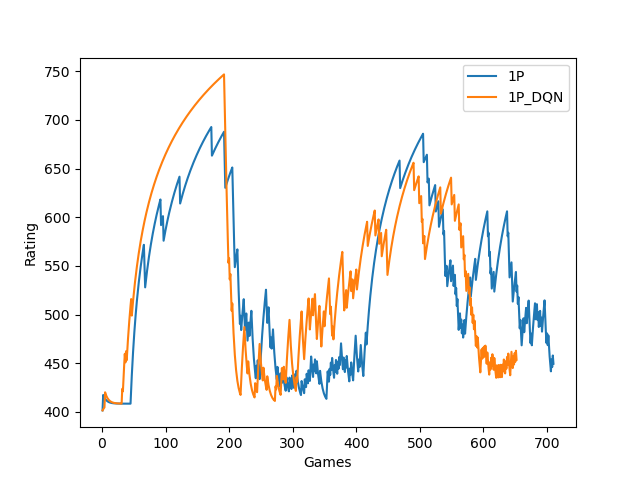
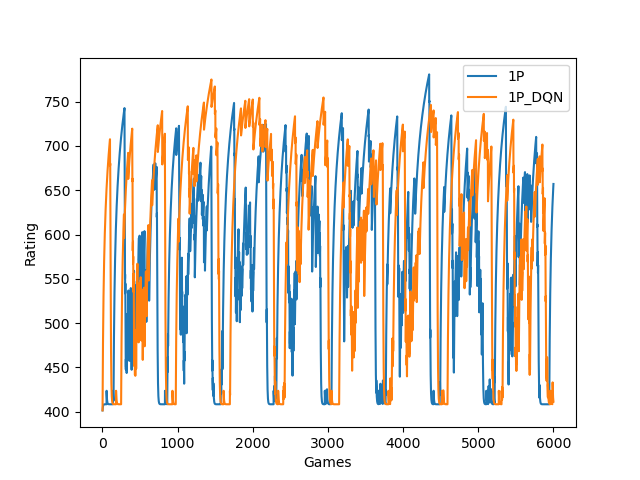
結果のグラフを追加

diff --git a/CardBattle/GraphDrawer_CompareWinRate2P.py b/CardBattle/GraphDrawer_CompareWinRate2P.py
@@ -1,0 +1,23 @@
+#coding: "utf-8"
+import matplotlib
+matplotlib.use("Agg")
+import matplotlib.pyplot as plt
+import pandas as pd
+
+Data2P = pd.read_csv("Model_EZero\EZeroWinRate_2P.csv",header=None)
+Data2P_DQN = pd.read_csv("Model\DQNWinRate_2P.csv",header=None)
+
+
+x2P = Data2P[0]
+y2P = Data2P[1]
+x2P_DQN = Data2P_DQN[0]
+y2P_DQN = Data2P_DQN[1]
+
+plt.xlabel("Games")
+plt.ylabel("Rating")
+plt.plot(x2P,y2P,label="2P")
+plt.plot(x2P_DQN,y2P_DQN,label="2P_DQN")
+plt.legend()
+plt.show()
+plt.savefig("Graph_CompareWinRate2P.png")
+

diff --git a/CardBattle/GraphDrawer_CompareWinRate1P.py b/CardBattle/GraphDrawer_CompareWinRate1P.py
@@ -1,0 +1,23 @@
+#coding: "utf-8"
+import matplotlib
+matplotlib.use("Agg")
+import matplotlib.pyplot as plt
+import pandas as pd
+
+Data1P = pd.read_csv("Model_EZero\EZeroWinRate.csv",header=None)
+Data1P_DQN = pd.read_csv("Model\DQNWinRate.csv",header=None)
+
+
+x1P = Data1P[0]
+y1P = Data1P[1]
+x1P_DQN = Data1P_DQN[0]
+y1P_DQN = Data1P_DQN[1]
+
+plt.xlabel("Games")
+plt.ylabel("Rating")
+plt.plot(x1P,y1P,label="1P")
+plt.plot(x1P_DQN,y1P_DQN,label="1P_DQN")
+plt.legend()
+plt.show()
+plt.savefig("Graph_CompareWinRate1P.png")
+
